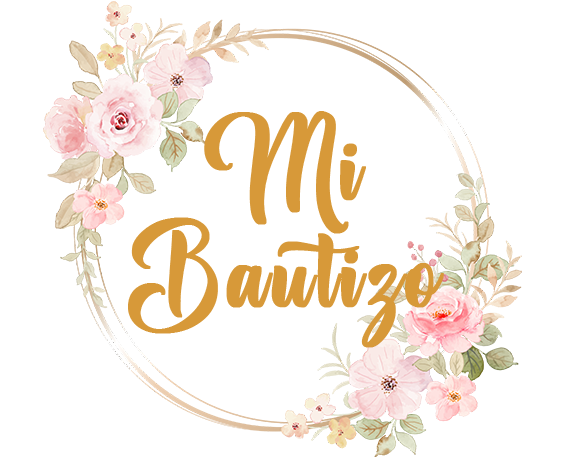
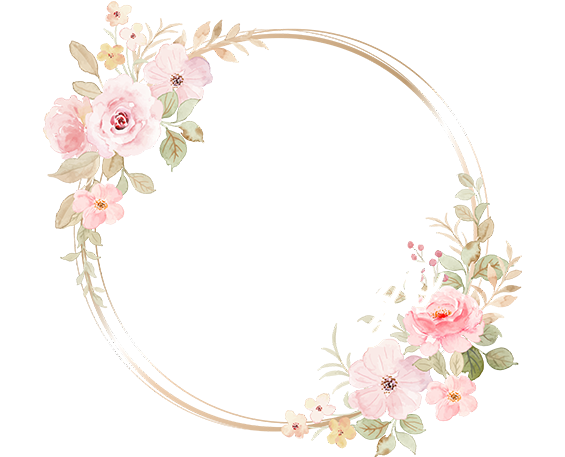
changes 2

Changed region(s): [[0.2106, 0.2451, 0.7823, 0.7659]]

diff --git a/src/components/special.js b/src/components/special.js
@@ -1,6 +1,8 @@
 import React, { Component } from 'react'
 import Thumb from '../assets/BT/division.png'
-
+import Paps from '../assets/BT/paps.png'
+import Padrinos from '../assets/BT/padrinos.png'
+import PadrinoP from '../assets/BT/paadrinoP.png'
 
 
 
@@ -15,7 +17,7 @@ export default class special extends Component {
              
               <div className='columns is-centered is-mobile'>
                 <div className='column gifta is-full py-6  animate__animated  animate__fadeInDown'>
-                  
+                <img src={Paps} className='thumb2'></img>
                   <h1 class="tempting blue">Mis Papis</h1> 
                   
                 
@@ -42,6 +44,7 @@ export default class special extends Component {
               <div className='container has-text-centered'>
                 <div className='columns is-centered'>
                   <div className='column py-6  is-full gifta'>
+                  <img src={PadrinoP} className='thumb2'></img>
                     <h1 class="tempting green pt-4">Padrino de <br></br>Presentación</h1>
                     <br></br>
                     <img src={Thumb} className='thumb py-2'></img>
@@ -60,7 +63,7 @@ export default class special extends Component {
               <div className='container has-text-centered'>
                 <div className='columns is-centered'>
                   <div className='column py-6  is-full gifta'>
-                    
+                    <img src={Padrinos} className='thumb2'></img>
                     <h1 class="tempting green pt-4">Mis Padrinos <br></br> (Bautizo)</h1>
                     
                    

diff --git a/src/components/ending.js b/src/components/ending.js
@@ -1,4 +1,6 @@
 import React, { Component } from 'react'
+import Bby from '../assets/BT/bby.png';
+
 
 export default class ending extends Component {
   render() {
@@ -11,12 +13,14 @@ export default class ending extends Component {
                 <div className='columns'>
                     
                     <div className='column  gifta py-6 is-full '>
+                        <img src={Bby} className='thumb2'></img>
+
                         <h1 className=' is-1 pacific green my-6'>Agradecemos su asistencia</h1>
                         <h1 className='subtitle is-2 pacific green mt-6' >Confirmar asistencia</h1>
 
                         <h2 className='futura white'>Confirmanos tu asistencia</h2>
-                        <a className='button  is-outlined is-white my-4 mx-2'  href='https://wa.me/+5213121804280?text=Por%20favor%2C%20confirma%20si%20asistir%C3%A1s%20al%20evento%20para%20que%20podamos%20mantenerte%20informado%20sobre%20cualquier%20actualizaci%C3%B3n.' target='_blank'>Envia un whatsapp</a>
-                        <h2 className='futura white'>Recuerda: <br></br> el código de vestimenta <b>TENIS</b> </h2>
+                        
+                        
                     </div>
                 </div>
                 </div>

diff --git a/src/components/lugar.js b/src/components/lugar.js
@@ -12,12 +12,12 @@ export default class lugar extends Component {
             <div class="container  has-text-centered ">
                 <div className='columns '>
                   <div className='column is-half gifta py-6'>
-                  <img src={Iglesia} className='thumb' ></img>
+                  <img src={Iglesia} className='thumb2' ></img>
                       <p class=" pacific green py-4">
                         Ceremonia Religiosa
                       </p>
                       <p class="subtitle futura mt-4 white" >
-                          Parroquia del espíritu santo<br></br> Felipe Sevilla del Río S/N, <br></br>Jardines Vista Hermosa III, 28017 Colima, Col.
+                          Parroquia del Espíritu Santo<br></br> Felipe Sevilla del Río S/N, <br></br>Jardines Vista Hermosa III, 28017 Colima, Col.
                       </p>
                       <b><p className='futura  py-3 white'></p></b>
                       <a href='https://maps.app.goo.gl/tPC9ZWyfwiLSfXyH8' className='button is-outlined  is-medium blue' target='_blank'>Abrir en Google maps</a>

diff --git a/src/components/cover.js b/src/components/cover.js
@@ -1,5 +1,6 @@
-import React, { Component } from 'react'
-import Fecha from '../assets/BT/Fecha.png'
+import React, { Component } from 'react';
+import Fecha from '../assets/BT/Fecha.png';
+import Start from '../assets/BT/bautizo.png';
 
 export default class cover extends Component {
   render() {
@@ -46,6 +47,7 @@ export default class cover extends Component {
           <div class="container glass is-fluid is-desktop">
             <div className="columns has-text-centered">
               <div className='column is-full '>
+                <img src={Start} className='thumb2'></img>
                 <h1 className=' blue tempting couple my-3'>Alecita</h1>
                 <i><h2 class="subtitle futura white">“Acompañanos en esta gran celebración”</h2></i>
                 <br></br>

diff --git a/src/App.css b/src/App.css
@@ -10,7 +10,7 @@ body{
   background-color: #fab6da;
   background-image: url("https://www.transparenttextures.com/patterns/fresh-snow.png");
 
-}
+} 
 .logo{
   width: 120px;
 }
@@ -164,8 +164,8 @@ background-size: cover;
 .glass{
 /* From https://css.glass */
 background: rgba(250, 182, 218, 0.3);
-border-radius: 0;
-box-shadow: 0 4px 30px rgba(0, 0, 0, .4);
+border-radius: 8PX;
+box-shadow: 0 4px 30px rgba(0, 0, 0, .5);
 backdrop-filter: blur(3.3px);
 -webkit-backdrop-filter: blur(3.3px);
 
@@ -266,7 +266,7 @@ backdrop-filter: blur(3.3px);
 }
 
 .liver{
-  width: 60%;
+  width: 80%;
 }
 
 .bank{

diff --git a/public/index.html b/public/index.html
@@ -15,7 +15,7 @@
 
     <meta
       name="description"
-      content="Invitación para la boda de Ivette y Francisco"
+      content="Invitación para el Bautizo de Alecita"
     />
     <link rel="apple-touch-icon" href="%PUBLIC_URL%/logo192.png" />
     <!--

diff --git a/src/App.js b/src/App.js
@@ -21,7 +21,6 @@ function App() {
   
   return (
     <>
-     <Navbar></Navbar>
      <Cover></Cover>
      <Special></Special>
      
